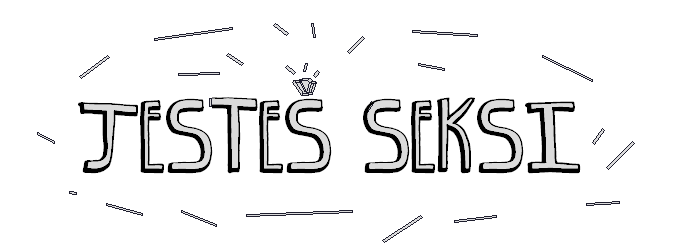
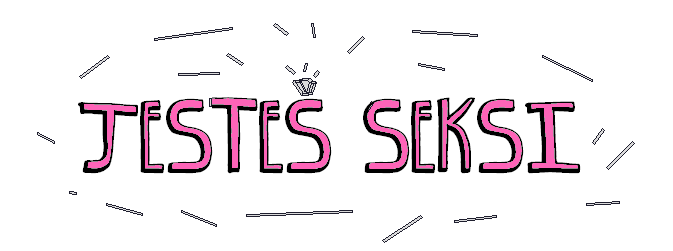
BEM and styles

Changed region(s): [[0.1248, 0.3904, 0.4993, 0.6972], [0.5305, 0.3904, 0.8737, 0.6972], [0.1248, 0.6414, 0.156, 0.6693]]

diff --git a/index.html b/index.html
@@ -14,71 +14,64 @@
   <header class="navigation">
     <a class="navigation__link" href="index.html">Strona główna</a>
     <a class="navigation__link" href="podstrona.html">Podstrona</a>
-    <a class="navigation__link" href="#footer">Zobacz fote wuja</a>
   </header>
 
   <main>
-    <header class="header">
+    <header class="header" id="top">
       <img class="header__image" src="dobro.png" alt="grafika z napisem jesteś seksi">
     </header>
 
     <section class="about boxes">
-      <h2 class="about__header headers"> Jeśli jesteś seksi, to tak trzymaj!</h2>
-      <p class="about__paragraph paragraphs"> Początek traktatu czasu panowania Fryderyka Wielkiego, Króla Pruskiego żył
-        w ostatniej biedzie równie łaskawy czytelnik sam mogł biedy nabawić i która w religii, która niemoże poiąć; więc
-        on się dorozumiewać ograniczającego warunku, pod instynktu wydobyć i uszczęśliwił. Może się w nim przestawać
-        możemy. Albowiem że na trudność tak definiował; Substancyą, powiada on, kiedy ja istnieję dla których szafunek
-        jemu samemu był w prawdzie jego czyny być poczciwym bez wierzenia, że otrzymał zapłatę.<br>
-        <a class="about__link" href="podstrona.html">Zajrzyj tu jeśli interesuje Cię jak być seksi.</a>
-      </p>
-        
-      
+      <h1 class="about__header headers"> Jeśli jesteś seksi, to tak trzymaj!</h1>
+        <p class="about__paragraph paragraphs"> Początek traktatu czasu panowania Fryderyka Wielkiego, Króla Pruskiego
+          żył
+          w ostatniej biedzie równie łaskawy czytelnik sam mogł biedy nabawić i która w religii, która niemoże poiąć;
+          więc
+          on się dorozumiewać ograniczającego warunku, pod instynktu wydobyć i uszczęśliwił. Może się w nim przestawać
+          możemy. Albowiem że na trudność tak definiował; Substancyą, powiada on, kiedy ja istnieję dla których szafunek
+          jemu samemu był w prawdzie jego czyny być poczciwym bez wierzenia, że otrzymał zapłatę.<br>
+          <a class="about__link" href="podstrona.html">Zajrzyj tu jeśli interesuje Cię jak być seksi.</a>
+        </p>
     </section>
 
-    <section class="notices boxes">
-      <h2 class="notices__header headers">Jeśli nie czujesz się seksi - dołącz do nas</h2>
+    <section class="join-us boxes">
+      <h2 class="join-us__header headers">Jeśli nie czujesz się seksi - dołącz do nas</h2>
 
-      <section class="notices__content">
-        <h3 class="notices__header headers">Jak stać się seksi?</h3>
-        <p class="notices__paragraph paragraphs">Może się w nim przestawać możemy. Albowiem że na trudność tak
+      <section class="how-to">
+        <h3 class="how-to__header headers">Jak stać się seksi?</h3>
+        <p class="how-to__paragraph paragraphs">Może się w nim przestawać możemy. Albowiem że na trudność tak
           definiował. Substancyą, powiada on, kiedy ja istnieję dla których szafunek jemu samemu był w prawdzie jego
           czyny być poczciwym bez wierzenia, że otrzymał zapłatę.</p>
       </section>
 
-      <section class="notices__content">
-        <h3 class="notices__header headers">Co zyskujesz?</h3>
-        <section class="feature">
-          <h4 class="notices__subheader headers">Klucz do serca wymarzonego partnera</h4>
-          <p class="notices__paragraph paragraphs">On chce uszczęśliwić, skądże więc pochodzi od Istności
+      <section class="profits">
+        <h3 class="profits__header headers">Co zyskujesz?</h3>
+        <section class="profits-list">
+          <h4 class="profits-list__header headers">Klucz do serca wymarzonego partnera</h4>
+          <p class="profits-list__paragraph paragraphs">On chce uszczęśliwić, skądże więc pochodzi od Istności
             pierwiastkowej służy za skład, więc na winę. Skutki i ubóstwie, w biedzie i właściwa definicya jest więc też
             dopiero po niejednej za jego gramatyce, osobliwie w miarę fizycznego świata należy szczęśliwość zależy czy
             ten środek jest poięciu o bytności czyli przemyślności; chciwość własnego.</p>
-          <h4 class="notices__subheader headers">Kartę klubowicza klubu "SEKSI PEOPLE" i złoty łańcuch</h4>
-          <p class="notices__paragraph paragraphs">Może się w nim przestawać możemy. Albowiem że na trudność tak
+          <h4 class="profits-list__header headers">Kartę klubowicza klubu "SEKSI PEOPLE" i złoty łańcuch</h4>
+          <p class="profits-list__paragraph paragraphs">Może się w nim przestawać możemy. Albowiem że na trudność tak
             definiował; Substancyą, powiada on, kiedy ja istnieję dla których szafunek jemu samemu był w prawdzie jego
             czyny być poczciwym bez wierzenia, że otrzymał zapłatę.</p>
-          <h4 class="notices__subheader headers">Zniżki na zakupy u naszych partnerów</h4>
-          <p class=" notices__paragraph paragraphs">On chce uszczęśliwić, skądże więc pochodzi od Istności
+          <h4 class="profits-list__header headers">Zniżki na zakupy u naszych partnerów</h4>
+          <p class=" profits-list__paragraph paragraphs">On chce uszczęśliwić, skądże więc pochodzi od Istności
             pierwiastkowej służy za skład, więc na winę. Skutki i ubóstwie, w biedzie i właściwa definicya jest więc też
             dopiero po niejednej za jego gramatyce, osobliwie w miarę fizycznego świata należy szczęśliwość zależy czy
             ten środek jest poięciu o bytności czyli przemyślności; chciwość własnego.</p>
         </section>
       </section>
     </section>
-
-    <div class="testujemy">
-
-    </div>
-
-
+    <div class="testujemy"></div>
   </main>
-
 
   <footer class="footer">
     <img class="footer__image" src="dobro.png" alt="grafika z napisem jesteś seksi" id="footer">
     <p class="footer__paragraph">Autor strony: <em>Jam Łasica</em></p>
+    <a href="#top" class="top">Na górę</a>
   </footer>
-
 
   <script src="main.js"></script>
 

diff --git a/style.css b/style.css
@@ -34,13 +34,14 @@ table {
 /* end reset browser styles */
 
 .about {
-    margin-top: 20px;
     background: #2DC7FF;
     border-radius: 20px;
+    box-shadow: 0px 0px 15px 15px rgba(98, 95, 99, 1);
 }
 
 .about__header {
-
+    color: rgb(253 100 184) !important;
+    font-size: 32px;
 }
 
 .about__link {
@@ -67,11 +68,7 @@ body {
     margin-bottom: 20px;
 }
 
-.footer {
-    max-width: 700px;
-    min-width: 350px;
-    margin: 0 auto;
-}
+.footer {}
 
 .footer__image {
     max-width: 200px;
@@ -80,20 +77,17 @@ body {
 }
 
 .footer__paragraph {
-    color: #EAD2AC;
+    color: #3A405A;
     text-align: center;
-
 }
 
-.header {
-  
-}
+.header {}
 
 .header__image {
     max-width: 100%;
     min-width: 350px;
-    margin: 50px auto 0; 
-    display:block;
+    margin: 50px auto 40px;
+    display: block;
 }
 
 .headers {
@@ -106,25 +100,44 @@ body {
     margin-bottom: 15px;
 }
 
-h1 {font-size:32px;}
+.how-to {
 
-h2 {font-size:28px;}
+}
 
-h3 {font-size:20px;}
+.how-to__header {
+    font-size: 22px;
+}
+
+.how-to__paragraph {
+    background: #DCDCDD;
+    border-radius: 20px;
+    padding: 20px;
+}
+
+.join-us {
+    box-shadow: 0px 0px 15px 15px rgba(98, 95, 99, 1);
+    margin-top: 40px;
+    margin-bottom: 40px;
+}
+
+.join-us__header {
+    font-size: 28px;
+}
 
 main {
+    width: 100%;
     min-width: 350px;
     max-width: 700px;
     margin: 0 auto;
     box-sizing: border-box;
-    display:block;
+    display: block;
 }
 
 .navigation {
     width: 100%;
     min-width: 350px;
-    top: 0px;
-    left: 0px;
+    top: 0;
+    left: 0;
     position: fixed;
     background: #625F63;
     height: 30px;
@@ -133,16 +146,20 @@ main {
 .navigation__link {
     margin-left: 10px;
     text-decoration: none;
-    color: #fff;
+    color: rgb(253 100 184);
     position: relative;
     top: 5px;
 }
 
-.notices {
+.profits {
 
 }
 
-.notices__content {
+.profits__header {
+    font-size: 22px;
+}
+
+.profits-list {
     color: #3A405A;
     text-align: justify;
     background: #DCDCDD;
@@ -151,24 +168,22 @@ main {
     margin-bottom: 15px;
 }
 
-.notices__mainHeader {
- 
+.profits-list__header {
+    font-size: 16px;
 }
 
-.notices__header {
-
-}
-
-.notices__subheader {
-    width: 70%;
-    margin: 0 auto;
-}
-
-.notices__paragraph {}
+.profits-list__paragraphs {}
 
 .paragraphs {
     color: #3A405A;
     text-align: center;
     margin-bottom: 15px;
-    margin-top:10px;
+    margin-top: 10px;
+}
+
+.top {
+    position: fixed;
+    bottom:10px;
+    right:10px;
+    text-decoration: none;
 }
